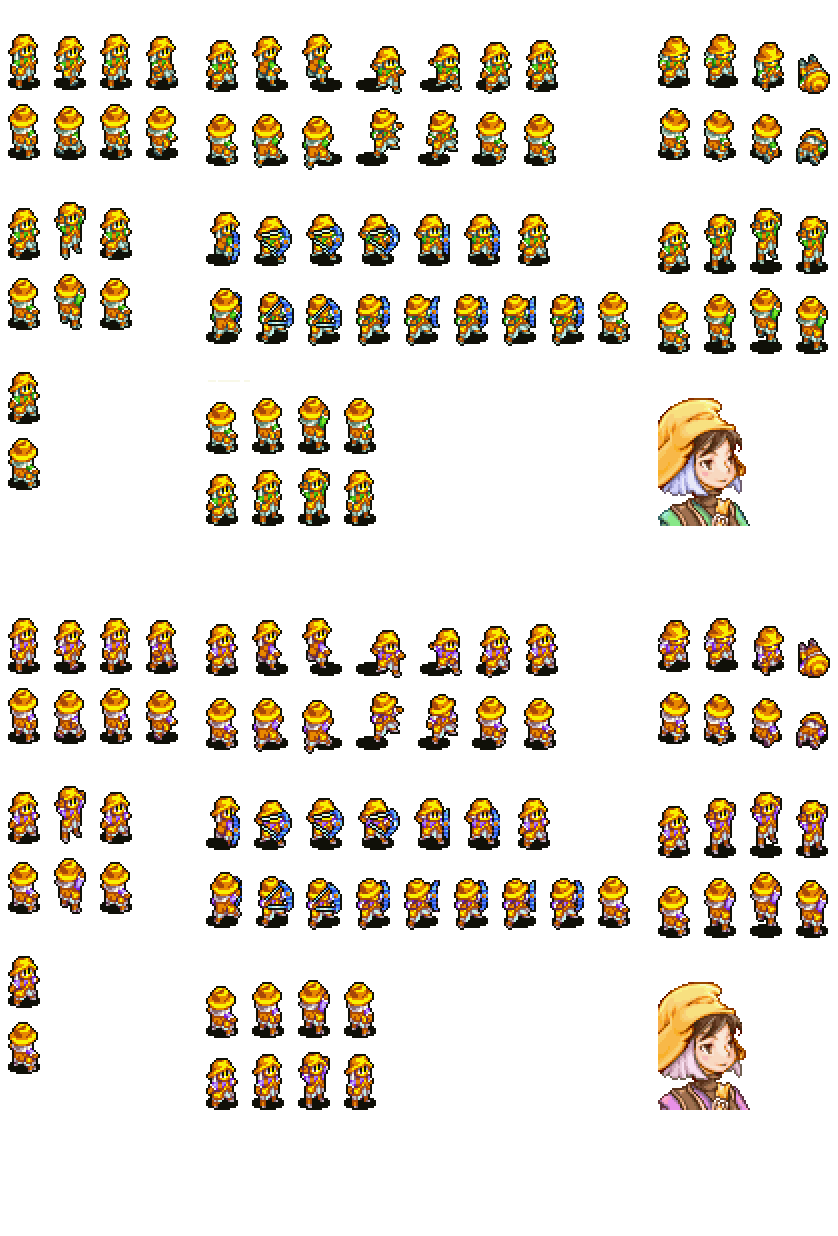
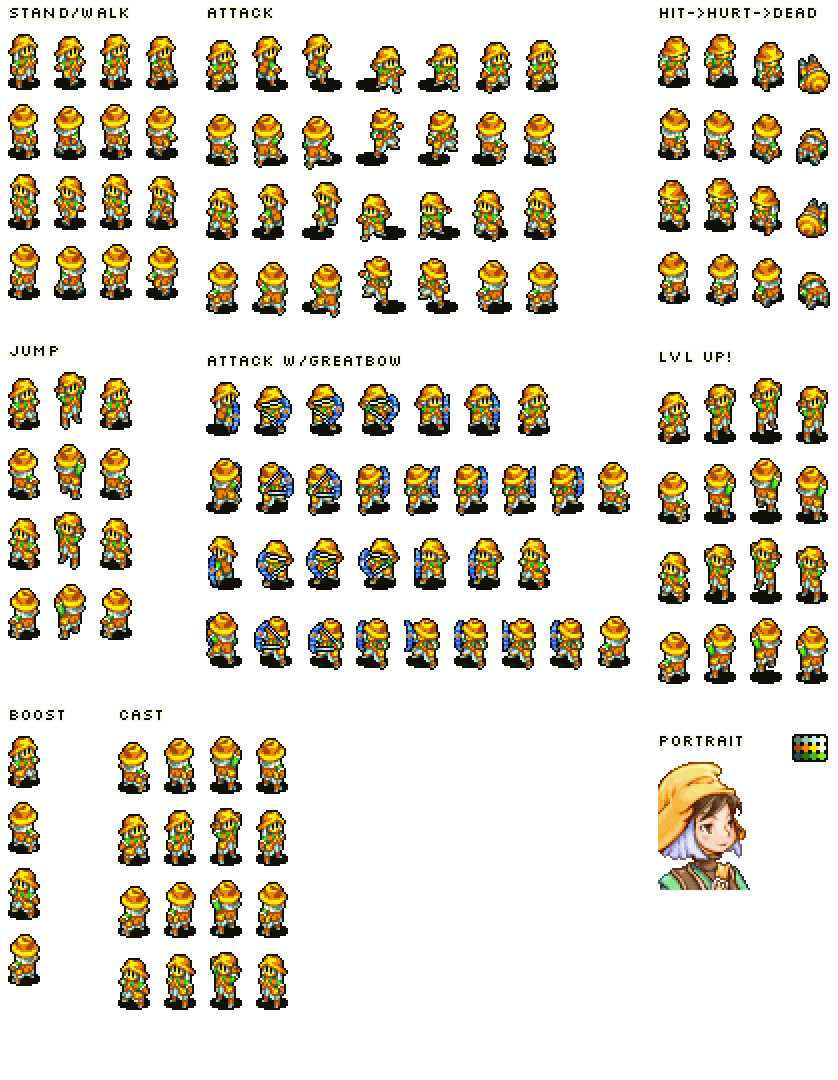
DATA.action modified, new char images added
DATA.action created, charactor init function realized

diff --git a/js/Rita45_resource.js b/js/Rita45_resource.js
@@ -1,24 +1,37 @@
-var sourse = {
-	view : document.getElementById('VIEW'),
-	frame : document.getElementById('FRAME'),
-	layer_bg :document.getElementById('LAYER_BG'),
-	layer_act : document.getElementById('LAYER_ACT'),
-	layer_menu : document.getElementById('LAYER_MENU')
-}
-
 var DATA = {};
 
 var party = {
-	S01 : {
-		race : 'aivera',
-		job : 'unique',
-		name : 'Shara',
+	N01 : {
+		action_ID : 'C001',
+		race : 'Human',
+		job : 'Fighter',
+		name : 'Marche',
+		level : 3,
+		EXP:45,
+		ATK : 12,
+		DEF : 6,
+		MATK : 5,
+		MDEF :2,
+		equip_01 : 'WE001',
+		equip_02 : 'AR001',
+		equip_03 : 'SH001',
+		equip_04 : 'HE001',
+		equip_05 : 'AC001',
+		item : ['IT001','IT002'],
+		skill : ['SK001','SK002']
+	},
+
+	N02 : {
+		action_ID : 'C002',
+		race : 'Human',
+		job : 'Black Mage',
+		name : 'JK.Love',
 		level : 4,
 		EXP:80,
-		ATK : 21,
-		DEF : 6,
+		ATK : 8,
+		DEF : 4,
 		MATK : 18,
-		MDEF :7,
+		MDEF :8,
 		equip_01 : 'WE001',
 		equip_02 : 'AR001',
 		equip_03 : 'SH001',
@@ -28,7 +41,7 @@ var party = {
 		skill : ['SK001','SK002']
 	},
 
-	N02 : {
+	N03 : {
 		race : 'aivera',
 		job : 'sniper',
 		name : 'JK Rose',
@@ -67,6 +80,14 @@ var store = {
 	}
 }
 
+DATA.html = {
+	view : document.getElementById('VIEW'),
+	frame : document.getElementById('FRAME'),
+	layer_bg :document.getElementById('LAYER_BG'),
+	layer_act : document.getElementById('LAYER_ACT'),
+	layer_menu : document.getElementById('LAYER_MENU')
+}
+
 DATA.weapon = {
 	WE001 : {
 		name : 'Iron Sword',
@@ -80,6 +101,25 @@ DATA.weapon = {
 		name : 'Steel Sword',
 		legend : 'Sharp sword made by steel',
 		tip : '+18 ATK',
+		effect : function(){
+			
+		}
+	},
+}
+
+DATA.helm = {
+	HE001 : {
+		name : 'Iron Helm',
+		legend : 'Common helm made by iron',
+		tip : '+3 DEF',
+		effect : function(){
+			
+		}
+	},
+	HE002 : {
+		name : 'Brone Helm',
+		legend : 'Careful made helm provide better protect',
+		tip : '+6 DEF',
 		effect : function(){
 			
 		}
@@ -182,12 +222,99 @@ DATA.skills = {
 }
 
 DATA.action = {
-	
+	//citizen
+	C001 : {
+		src : 'url(images/Marche.png)',
+		getInstance : function(face){
+			var div = document.createElement('div');
+			div.style.id = 'C001';
+			div.style.width = 32 + 'px';
+			div.style.height = 62 + 'px';
+			div.style.backgroundImage = DATA.action.C001.src;
+			
+			switch (face){
+				case 'up' : 
+					div.style.backgroundPosition = '-102px -362px'
+					break
+				case 'down' : 
+					div.style.backgroundPosition = '-102px -66px'
+					break 
+				case 'left' : 
+					div.style.backgroundPosition = '-102px -152px'
+					break
+				case 'right' : 
+					div.style.backgroundPosition = '-102px -256px'
+					break
+				default : 
+			}
+
+			return div; 
+		},
+		getAvatar : function(sFace){
+			var div = document.createElement('div');
+			div.style.width = 94 + 'px';
+			div.style.height = 128 + 'px';
+			div.style.backgroundImage = DATA.action.C001.src;
+			div.style.backgroundPosition = '-4px -428px';
+			return div;
+		}
+
+	},
+	C002 : {
+		src : 'url(images/BlackMage.png)',
+		getInstance : function(face){
+			var div = document.createElement('div');
+			div.style.id = 'C002';
+			div.style.width = 32 + 'px';
+			div.style.height = 60 + 'px';
+			div.style.backgroundImage = DATA.action.C002.src;
+			
+			switch (face){
+				case 'up' : 
+					div.style.backgroundPosition = '-44px -366px'
+					break
+				case 'down' : 
+					div.style.backgroundPosition = '-44px -68px'
+					break 
+				case 'left' : 
+					div.style.backgroundPosition = '-44px -154px'
+					break
+				case 'right' : 
+					div.style.backgroundPosition = '-44px -258px'
+					break
+				default : 
+			}
+
+			return div; 
+		},
+		getAvatar : function(sFace){
+			var div = document.createElement('div');
+			div.style.width = 126 + 'px';
+			div.style.height = 176 + 'px';
+			div.style.backgroundImage = DATA.action.C002.src;
+			div.style.backgroundPosition = '-6px -430px';
+			return div;
+		}
+
+	},
+	//moster
+	M001 : {
+		src : 'url(images/Malboro.png)',
+		getAvatar : function(){
+			var div = document.createElement('div');
+			div.style.width = 118 + 'px';
+			div.style.height = 162 + 'px';
+			div.style.backgroundImage = DATA.action.M01.src;
+			div.style.backgroundPosition = '0px -132px';
+			return div;
+		}
+
+	}
 }
 
 function crFrame(){
-	var view = sourse.view;
-	var map = sourse.frame;
+	var view = DATA.html.view;
+	var map = DATA.html.frame;
 	var dtX,dtY;
 	function dragOn(event){
 		dtX = event.clientX - map.offsetLeft;

diff --git a/js/Rita45_map.js b/js/Rita45_map.js
@@ -2,13 +2,13 @@ function loadMap(sMapID){
 	var map = maps[sMapID];
 	var grid;
 	var defaults = {
-		width : sourse.view.clientWidth,
-		height : sourse.view.clientHeight,
+		width : DATA.html.view.clientWidth,
+		height : DATA.html.view.clientHeight,
 		SRC : 'url(images/error.png)'
 	}
 
-	sourse.frame.style.width = map.WIDTH + 'px' || defaults.width + 'px';
-	sourse.frame.style.height = map.HEIGHT + 'px' || defaults.height + 'px';
+	DATA.html.frame.style.width = map.WIDTH + 'px' || defaults.width + 'px';
+	DATA.html.frame.style.height = map.HEIGHT + 'px' || defaults.height + 'px';
 
 	function crLayerAct(){
 		grid = document.createElement('table');
@@ -20,9 +20,9 @@ function loadMap(sMapID){
 		for(var i = 0,len = map.TR_SIZE; i < len; i++){
 			grid.appendChild(tr.cloneNode(true));
 		}
-		sourse.layer_act.appendChild(grid)
-		sourse.layer_act.style.left = map.LEFT + 'px';
-		sourse.layer_act.style.top = map.TOP + 'px';
+		DATA.html.layer_act.appendChild(grid)
+		DATA.html.layer_act.style.left = map.LEFT + 'px';
+		DATA.html.layer_act.style.top = map.TOP + 'px';
 	}
 
 	function setBlock(){
@@ -45,9 +45,9 @@ function loadMap(sMapID){
 	}
 
 	function init(){
-		sourse.layer_bg.style.width = map.WIDTH + 'px' || defaults.width + 'px';
-		sourse.layer_bg.style.height = map.HEIGHT + 'px' || defaults.height + 'px';
-		sourse.layer_bg.style.backgroundImage = map.SRC || defaults.SRC;
+		DATA.html.layer_bg.style.width = map.WIDTH + 'px' || defaults.width + 'px';
+		DATA.html.layer_bg.style.height = map.HEIGHT + 'px' || defaults.height + 'px';
+		DATA.html.layer_bg.style.backgroundImage = map.SRC || defaults.SRC;
 		crLayerAct();
 		setBlock();
 		setElevation();

diff --git a/js/Rita45_char.js b/js/Rita45_char.js
@@ -2,7 +2,17 @@ function loadChar(sMapID){
 	var char = chars[sMapID];	
 	var ally = {
 		setPosition : function(){
+			var actionId,position,instance;
+			for(var i=0, l=char.ally.length; i<l; i++ ){
+				actionId = party[char.ally[i].partyId].action_ID;
+				position = char.ally[i].position;
+				instance = DATA.action[actionId].getInstance(char.ally[i].face);
 
+				instance.style.left = 50 + 'px';
+				instance.style.top = 50 + 'px';
+				DATA.html.layer_act.appendChild(instance);
+
+			}
 		},
 		setAttr : function(){
 
@@ -32,12 +42,14 @@ var chars = {
 	SienaGorge : {
 		ally : [
 			{
-				id : 'S01',
+				partyId : 'N01',
+				face : 'up',
 				position : [13,4]
 			},
 
 			{
-				id : 'N02',
+				partyId : 'N02',
+			 	face : 'up',
 				position : [12,5]
 			}
 		],

diff --git a/css/Rita45.css b/css/Rita45.css
@@ -34,6 +34,10 @@ table{border-collapse: collapse;}
 #LAYER_ACT{
 	z-index: 2;
 }
+	#LAYER_ACT div{
+		z-index: 1;
+		position: absolute;
+	}
 #LAYER_BG{	
 	z-index: 1;
 }

diff --git a/js/Rita45.js b/js/Rita45.js
@@ -1,3 +1,3 @@
 crFrame();
 loadMap('SienaGorge');
-loadChar('SienaGorge')
+loadChar('SienaGorge');
